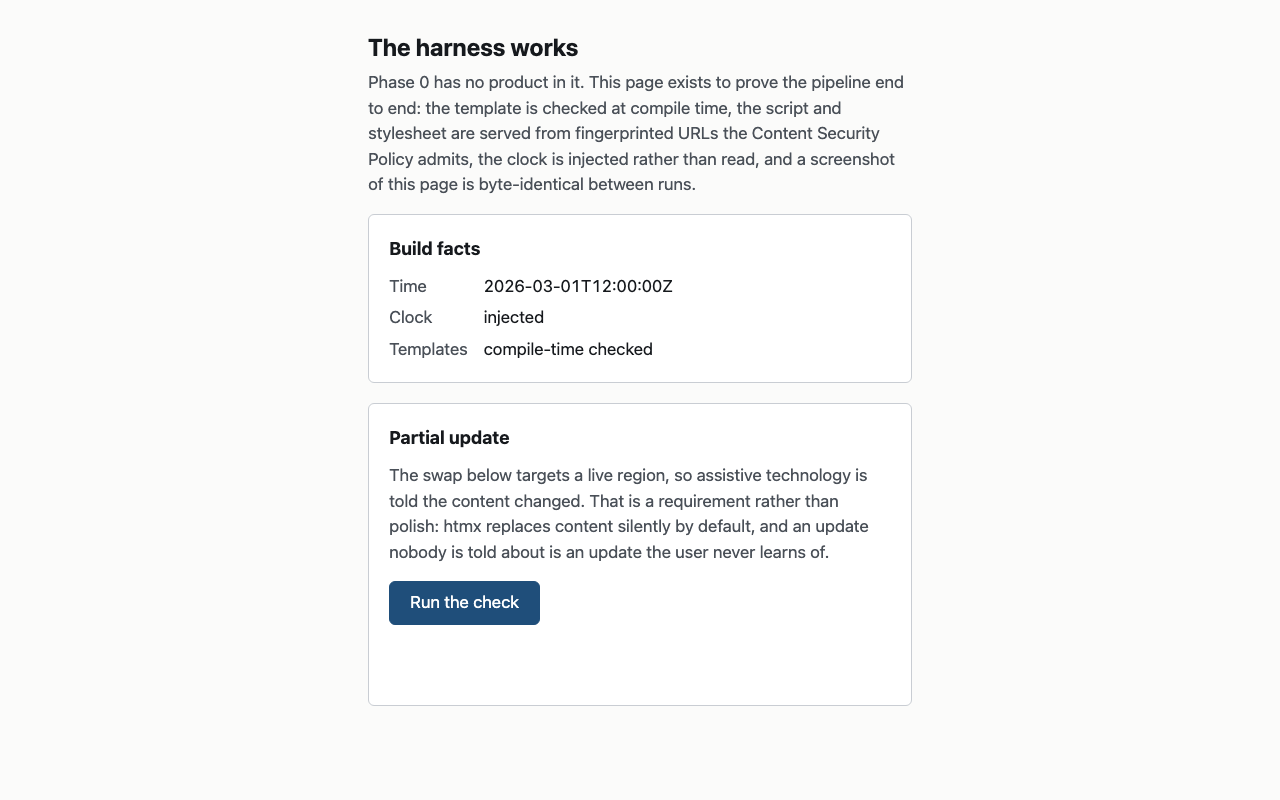
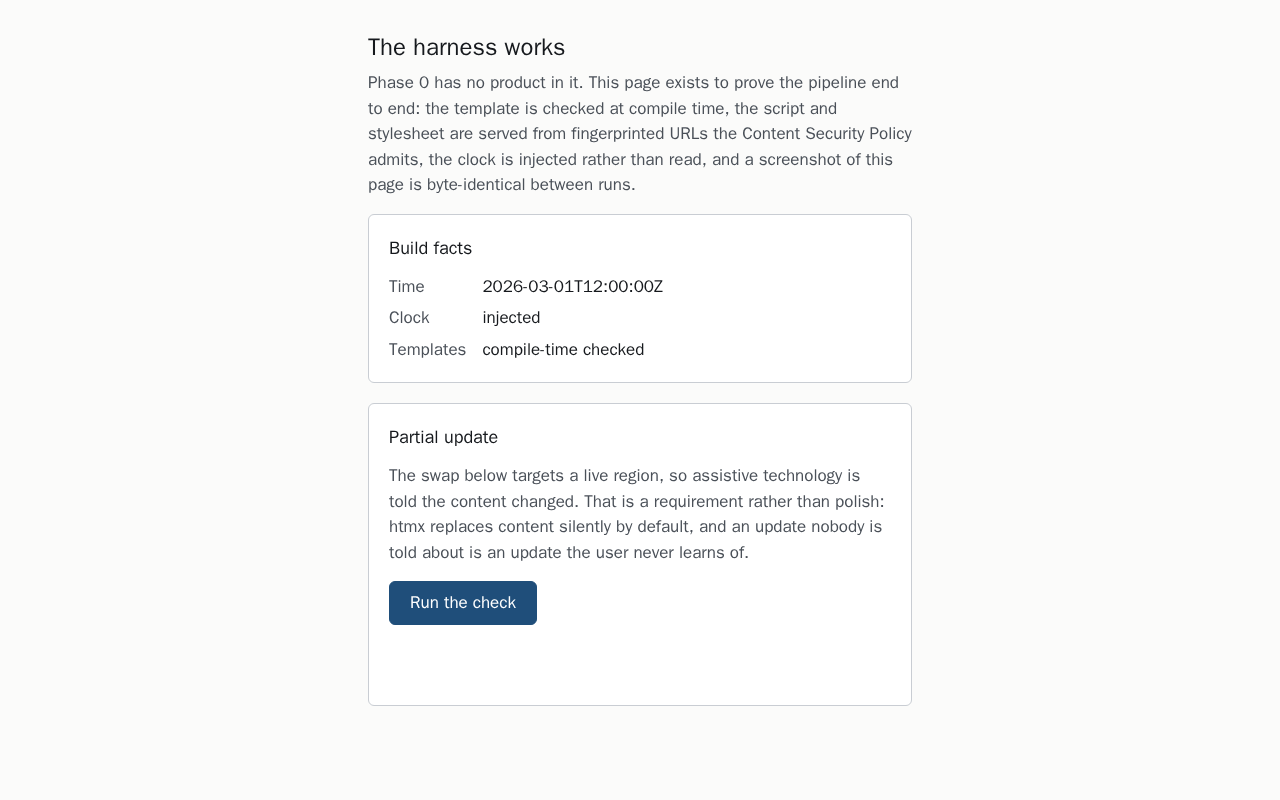
Generate the screenshot gallery in a container
CI failed the "committed gallery is current" check: the images it renders on
Ubuntu differ from the ones committed from macOS. `screenshots-verify` passed
on the runner, so CI is self-consistent — the mismatch was entirely between
platforms, and text rasterisation is the cause.

docs/screenshots/README.md already claimed images were produced inside the
end-to-end container both locally and in CI. They were not. Documents are law,
so the code was wrong: `make screenshots` now builds Linux binaries in a pinned
Rust image and drives the browsers in the matching Playwright image, at a
pinned architecture.

That closes most of the gap but not all of it, and the remainder is worth
stating rather than papering over. On Apple Silicon the container emulates
x86_64, and Chromium's rasteriser takes a different path under emulation than
on a native runner — its images differ, while WebKit's match CI exactly. The
options from there were to require an x86_64 machine of every contributor, or
to tune a pixel tolerance until the check passed. A tolerance tuned to make a
check go green is not a check.

So the byte-exact CI comparison is removed. What it was aimed at — an interface
change landing with a stale gallery beside it — is already covered by the
frontend gate, which requires the gallery to change whenever the frontend does.
`screenshots-verify` still proves regeneration is deterministic within one
environment, which is the property that makes the gallery worth trusting. The
[…]

diff --git a/e2e/playwright.config.ts b/e2e/playwright.config.ts
@@ -13,6 +13,15 @@ import { defineConfig, devices } from "@playwright/test";
 const APP_CLOCK = "2026-03-01T12:00:00Z";
 const PORT = 8137;
 
+/**
+ * Where the built binaries are.
+ *
+ * Defaults to the host build. `make screenshots` overrides it to point at the
+ * Linux build, because images are produced inside a container so that a
+ * developer's machine and CI rasterise text identically — see the Makefile.
+ */
+const BIN = process.env.APP_BIN_DIR ?? "../app/target/release";
+
 export default defineConfig({
   testDir: "./tests",
   // A screenshot that needed a retry to match is a screenshot nobody can trust.
@@ -66,7 +75,7 @@ export default defineConfig({
     // The data directory is removed first: every run starts from the seed and
     // nothing else, so two runs cannot disagree because of what a previous one
     // left behind.
-    command: `rm -rf ../.e2e-data && ../app/target/release/seed ../.e2e-data && APP_CLOCK=${APP_CLOCK} APP_PORT=${PORT} ../app/target/release/app-web`,
+    command: `rm -rf ../.e2e-data && ${BIN}/seed ../.e2e-data && APP_CLOCK=${APP_CLOCK} APP_PORT=${PORT} ${BIN}/app-web`,
     url: `http://127.0.0.1:${PORT}/healthz`,
     reuseExistingServer: false,
     stdout: "pipe",

diff --git a/AGENTS.md b/AGENTS.md
@@ -55,7 +55,8 @@ fails a build.
 | Every response carries the security headers | applied as a layer, asserted over the real router in `crates/web/tests/security_headers.rs` |
 | Authenticated HTML is never stored by a cache | `private, no-store` is the default; caching is opt-in per route |
 | No floating point in the money path | `clippy.toml` `disallowed-types` |
-| Screenshots are byte-identical between runs | `make screenshots-verify` |
+| Screenshots are byte-identical between runs **in one environment** | `make screenshots-verify` |
+| The gallery changes whenever the frontend does | the `frontend-gate` job, from the diff rather than the author's judgement |
 
 Later phases add: every route has an authorization-matrix entry, every read path
 returns one association's rows, no member-only route answers an unauthenticated
@@ -201,6 +202,22 @@ judgement. When nothing frontend changed, the section reads
 - **The screenshot pixel tolerance is zero.** A budget hides exactly the small
   regressions the suite exists to catch, and invites tuning the number instead
   of fixing the cause.
+- **`make e2e` deliberately skips the screenshot tests.** `make screenshots`
+  owns the gallery and writes it from inside a container. If the end-to-end run
+  wrote it too, host-rendered images would overwrite container-rendered ones and
+  whichever command ran last would decide what got committed.
+- **`make screenshots` runs in containers, and is therefore slow.** Text
+  rasterises differently on macOS and Linux, so a gallery regenerated on a
+  laptop would never match one regenerated in CI. The Rust and Playwright
+  images and the architecture are all pinned. Do not "speed this up" by running
+  the browsers natively.
+- **CI does not check the gallery byte-matches what the runner produces**, and
+  that is deliberate. Containerising gets close but cannot close the gap: an
+  Apple Silicon machine emulating x86_64 drives Chromium's rasteriser down a
+  different path, so its images differ from a native runner's while WebKit's
+  match exactly. The gallery is the visual record and the input to pull request
+  descriptions, not a cross-machine byte oracle. What keeps it current is the
+  frontend gate.
 
 ## What deliberately doesn't exist
 

diff --git a/docs/screenshots/README.md b/docs/screenshots/README.md
@@ -59,11 +59,31 @@ order — it is nearly always the first two:
 2. **Fixed identifiers.** The seed generator is deterministic: same input, same
    row identifiers, same case numbers, same ordering. It draws no randomness and
    reads no clock.
-3. **Fonts.** A system font stack renders differently across machines, so images
-   are produced inside the end-to-end container both locally and in continuous
-   integration. Phase 2 bundles a webfont when real typography arrives.
+3. **Rendering environment.** `make screenshots` runs inside pinned containers —
+   a Rust image to build Linux binaries and the matching Playwright image to
+   drive the browsers — at a pinned architecture. Text rasterisation differs
+   between macOS and Linux, so generating on a laptop without this would churn
+   every image.
 4. **Animation.** Disabled during capture, and the page honours
    `prefers-reduced-motion`.
+
+### What this does and does not guarantee
+
+**It does** guarantee that regenerating twice in the same place produces
+identical bytes. That is what `make screenshots-verify` checks, and it is the
+property that makes the gallery a usable record.
+
+**It does not** guarantee that your machine produces the same bytes as CI. On an
+Apple Silicon machine the container emulates x86_64, and Chromium's rasteriser
+takes a different path under emulation than on a native runner — WebKit's images
+match CI exactly, Chromium's do not. Chasing that last gap would mean either
+giving every contributor an x86_64 machine or tuning a pixel tolerance until it
+passes, and a tolerance tuned to make a check go green is not a check.
+
+So the gallery is **the visual record and the input to pull request
+descriptions**. It is not a cross-machine byte oracle. What enforces that it
+stays current is the frontend gate: a change touching the interface must change
+the gallery, or continuous integration fails.
 
 The pixel tolerance is **zero**. A budget hides exactly the small regressions
 this exists to catch.
